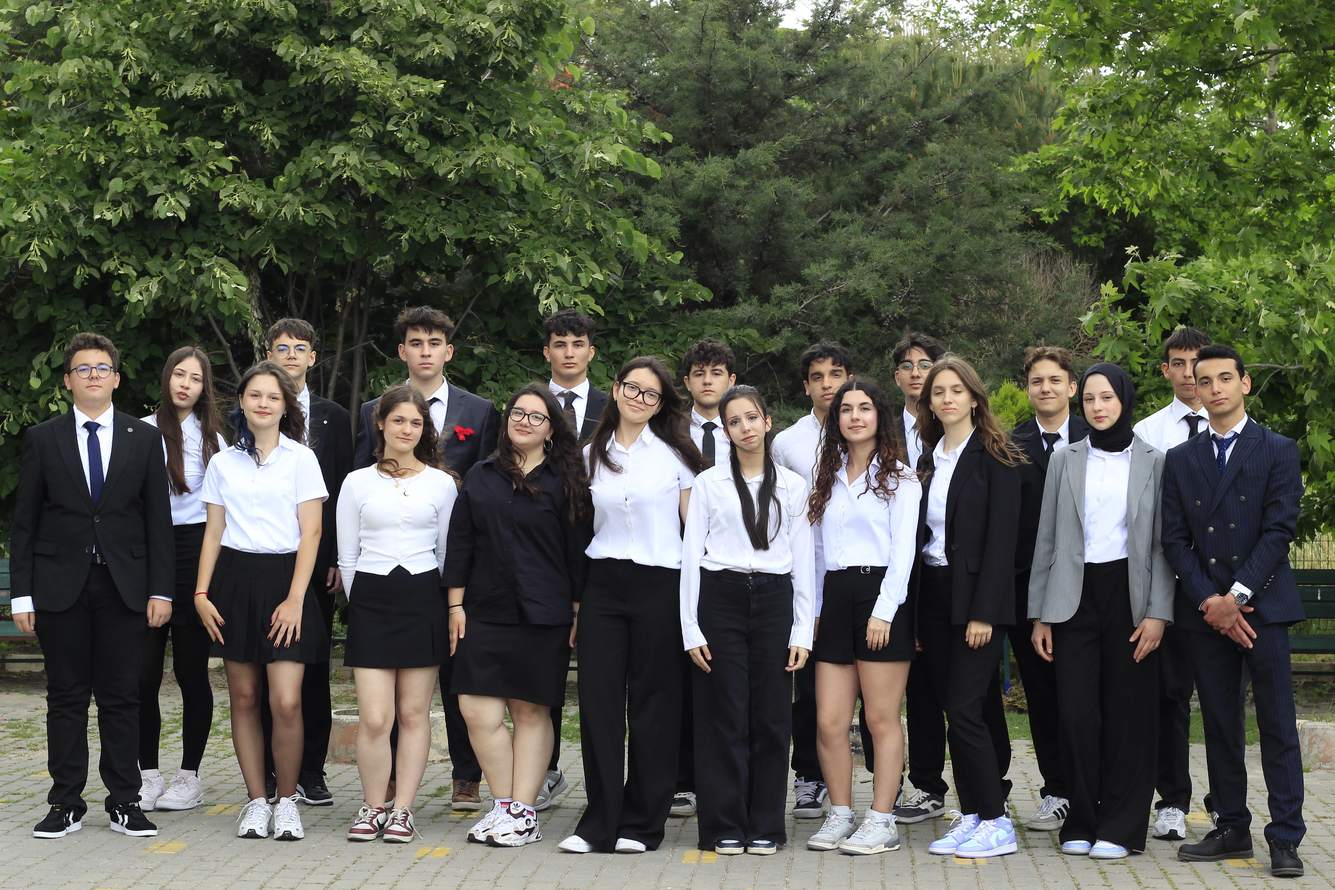
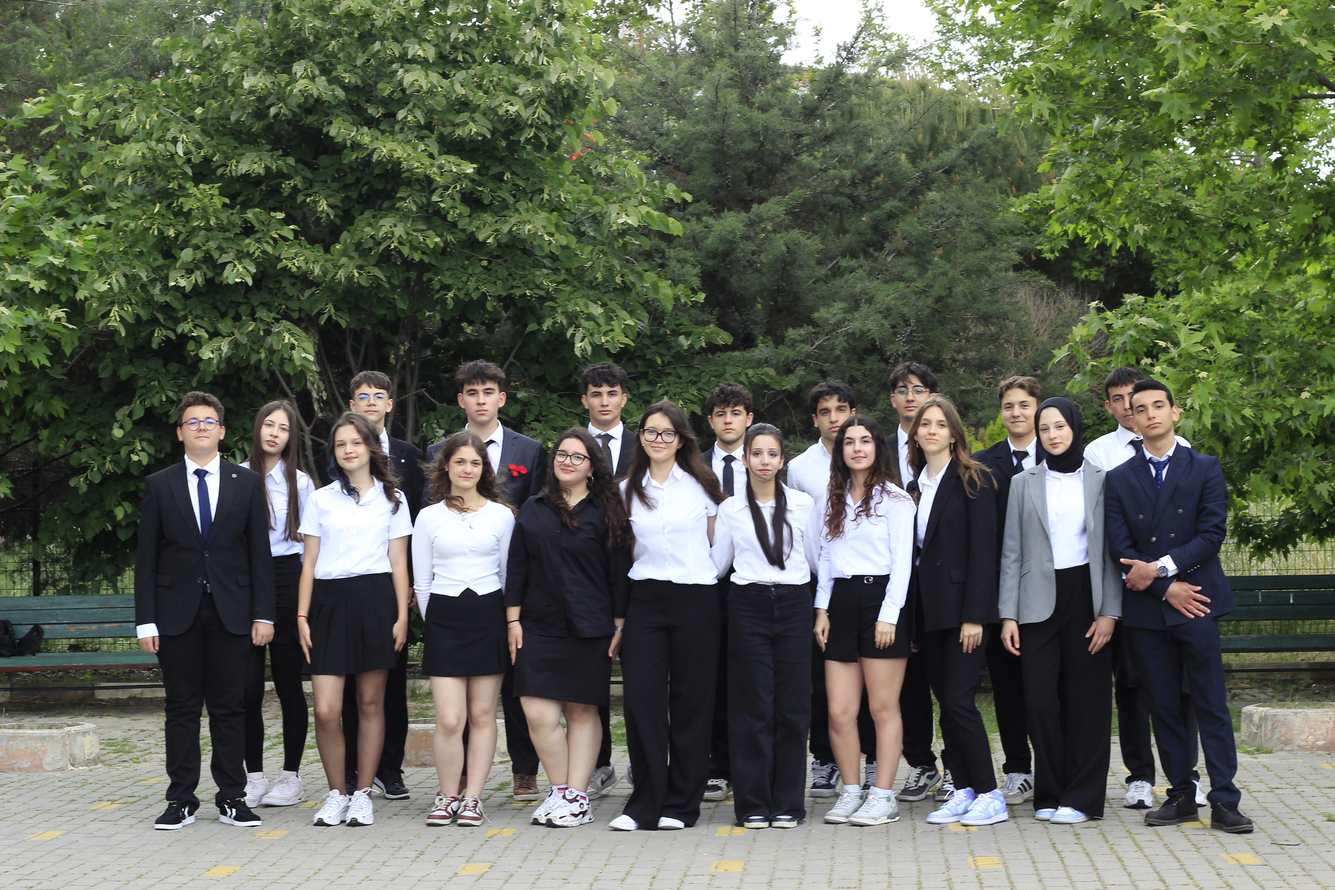
mal admin

diff --git a/example.html b/example.html
@@ -1,203 +1,223 @@
+
 <!DOCTYPE html>
 <html lang="tr">
 <head>
     <meta charset="UTF-8">
     <meta name="viewport" content="width=device-width, initial-scale=1.0">
-    <title>Rayfelmun Parlamento Paneli - 45 Derece</title>
+    <title>Rayfelmun '26 | Your Voice Can Change The World.</title>
+    
+    <link rel="canonical" href="https://rayfelmun.org/" />
+    
+    <meta name="description" content="Rayfel Model United Nations 2026 (Rayfelmun '26) resmi web sitesi. Komitelerimizi keşfedin ve başvurunuzu yaparak diplomasi dünyasına adım atın.">
+    <meta name="keywords" content="Rayfelmun, Rayfelmun 2026, MUN Türkiye, Model United Nations, MUN başvuruları, Ramazan Yaman Fen Lisesi MUN, Rayfel">
+    <meta name="robots" content="index, follow">
+    <meta name="author" content="Ada Özkan">
+
+    <link href="https://fonts.googleapis.com/css2?family=Antonio:wght@400;700&family=Outfit:wght@300;400;600;700&display=swap" rel="stylesheet">
+    <link rel="stylesheet" href="https://cdnjs.cloudflare.com/ajax/libs/font-awesome/6.0.0/css/all.min.css">
+    <link rel="stylesheet" href="style.css">
+
     <style>
-        @import url('https://fonts.googleapis.com/css2?family=Inter:wght@400;600&display=swap');
-
-        body {
-            font-family: 'Inter', sans-serif;
-            background-color: #f0f2f5;
-            display: flex;
-            justify-content: center;
-            align-items: center;
-            height: 100vh;
-            margin: 0;
-        }
-
-        .main-card {
-            background-color: #142948;
-            width: 850px;
-            height: 550px;
-            border-radius: 24px;
-            display: flex;
-            box-shadow: 0 25px 50px rgba(0,0,0,0.3);
-            overflow: hidden;
-        }
-
-        /* Sol Panel */
-        .sidebar {
-            width: 260px;
-            background-color: rgba(255, 255, 255, 0.03);
-            border-right: 1px solid rgba(255, 255, 255, 0.08);
-            padding: 40px 30px;
-            display: flex;
-            flex-direction: column;
-            color: white;
-            z-index: 2;
-        }
-
-        .sidebar h2 {
-            font-size: 20px;
-            margin-bottom: 30px;
-            letter-spacing: 2px;
-            border-left: 4px solid #e74c3c;
-            padding-left: 15px;
-            text-transform: uppercase;
-        }
-
-        .stat-item {
-            margin-bottom: 25px;
-        }
-
-        .stat-label {
-            font-size: 11px;
-            text-transform: uppercase;
-            opacity: 0.6;
-            display: block;
-            margin-bottom: 5px;
-        }
-
-        .stat-value {
-            font-size: 24px;
-            font-weight: 600;
-        }
-
-        /* Sağ Panel (Parlamento Alanı) */
-        .content {
-            flex: 1;
-            position: relative;
-            display: flex;
-            justify-content: center;
-            align-items: center;
-            background: radial-gradient(circle at center, rgba(255,255,255,0.02) 0%, transparent 70%);
-        }
-
-        /* Oturma planını komple 45 derece döndüren ana kapsayıcı */
-        .parliament-wrapper {
-            position: relative;
-            width: 400px;
-            height: 400px;
-            transform: rotate(-45deg); /* Tüm yapıyı 45 derece sola yatırdık */
-            display: flex;
-            justify-content: center;
-            align-items: center;
-        }
-
-        .parliament-container {
-            position: relative;
+        /* Sponsorlar Şerit Stili - Güncellenmiş ve Büyütülmüş */
+        .sponsors-container {
+            background-color: #5d0000; 
+            padding: 80px 0;
             width: 100%;
-            height: 100%;
+            overflow: hidden;
+            text-align: center;
         }
 
-        .podium {
-            position: absolute;
-            bottom: 20%;
-            left: 50%;
-            transform: translateX(-50%);
-            width: 50px;
-            height: 12px;
-            background-color: #ffffff;
-            border-radius: 2px;
-            box-shadow: 0 0 15px rgba(255,255,255,0.2);
+        .sponsors-header {
+            color: #fdf5e6;
+            font-family: 'Antonio', sans-serif;
+            font-size: 2.5rem;
+            letter-spacing: 3px;
+            margin-bottom: 50px;
+            text-transform: uppercase;
         }
 
-        .seat {
-            position: absolute;
-            width: 10px;
-            height: 10px;
-            background-color: #ffffff;
-            border-radius: 2px;
-            transition: all 0.3s cubic-bezier(0.175, 0.885, 0.32, 1.275);
+        .marquee-wrapper {
+            width: 95%; 
+            max-width: 1400px;
+            margin: 0 auto;
+            overflow: hidden;
+            mask-image: linear-gradient(to right, transparent, black 10%, black 90%, transparent);
         }
 
-        .seat.marked {
-            background-color: #e74c3c;
-            box-shadow: 0 0 8px rgba(231, 76, 60, 0.4);
+        .marquee-inner {
+            display: flex;
+            gap: 40px;
+            animation: scroll 25s linear infinite;
+            width: max-content;
         }
 
-        .seat:hover {
-            transform: scale(1.8) !important;
-            z-index: 100;
-            cursor: pointer;
-            box-shadow: 0 0 15px rgba(255,255,255,0.6);
+        .sponsor-box {
+            background-color: #fdf5e6; 
+            color: #5d0000; 
+            padding: 25px 50px;
+            border-radius: 12px;
+            font-family: 'Outfit', sans-serif;
+            font-weight: 700;
+            font-size: 1.3rem;
+            white-space: nowrap;
+            box-shadow: 0 8px 15px rgba(0,0,0,0.2);
+            border: 2px solid #e0c9a6;
+        }
+
+        @keyframes scroll {
+            0% { transform: translateX(0); }
+            100% { transform: translateX(-50%); }
         }
     </style>
 </head>
 <body>
 
-    <div class="main-card">
-        <div class="sidebar">
-            <h2>RAYFELMUN</h2>
-            <div class="stat-item">
-                <span class="stat-label">TOPLAM DELEGE</span>
-                <span class="stat-value" id="total-seats">0</span>
+    <header>
+        <nav>
+            <a href="/" class="logo-area">
+                <img src="rayfelmunLogo.png" alt="Rayfelmun 2026 Logo">
+                <span>Rayfelmun</span>
+            </a>
+            
+            <div class="menu-toggle" id="mobile-menu">
+                <i class="fas fa-bars"></i>
             </div>
-            <div class="stat-item">
-                <span class="stat-label">DOLU KOLTUK</span>
-                <span class="stat-value" style="color: #e74c3c;">25</span>
-            </div>
-            <div class="stat-item" style="margin-top: auto;">
-                <span class="stat-label">SİSTEM DURUMU</span>
-                <span class="stat-value" style="font-size: 14px; color: #2ecc71;">● CANLI BAĞLANTI</span>
-            </div>
-        </div>
 
-        <div class="content">
-            <!-- 45 derece dönen wrapper -->
-            <div class="parliament-wrapper">
-                <div class="parliament-container" id="parliament">
-                    <div class="podium"></div>
+            <div class="nav-right" id="nav-menu">
+                <ul class="nav-links">
+                    <li><a href="/" class="active">HOME</a></li>
+                    <li><a href="about.html">ABOUT</a></li>
+                    <li><a href="team.html">TEAM</a></li>
+                    <li><a href="committees.html">COMMITTEES</a></li> 
+                    <li><a href="calendar.html">CALENDAR</a></li> 
+                    <li><a href="venue.html">VENUE</a></li>
+                    <li><a href="faq.html">FAQ</a></li>
+                    <li><a href="contact.html">CONTACT</a></li>
+                </ul>
+                <a href="apply.html" class="apply-btn">APPLY NOW</a>
+            </div>
+        </nav>
+    </header>
+
+    <main>
+        <section class="hero">
+            <div class="hero-content">
+                <h1>Rayfelmun</h1>
+                <p class="slogan">Your voıce can change the world.</p>
+                
+                <div class="countdown">
+                    <div class="time-box">
+                        <span id="days">00</span>
+                        <label>Days</label>
+                    </div>
+                    <div class="time-box">
+                        <span id="hours">00</span>
+                        <label>Hours</label>
+                    </div>
+                    <div class="time-box">
+                        <span id="minutes">00</span>
+                        <label>Mıns</label>
+                    </div>
+                    <div class="time-box">
+                        <span id="seconds">00</span>
+                        <label>Secs</label>
+                    </div>
                 </div>
             </div>
+        </section>
+
+        <section class="sponsors-container">
+            <h2 class="sponsors-header">Our Sponsors</h2>
+            <div class="marquee-wrapper">
+                <div class="marquee-inner">
+                    <div class="sponsor-box">Super Energy</div>
+                    <div class="sponsor-box">Çiğköfteci Ömer Aybak</div>
+                    <div class="sponsor-box">Kızılay Natural Mineral Water</div>
+                    <div class="sponsor-box">Frango Döner</div>
+                    <div class="sponsor-box">Sponsor 5</div>
+                    <div class="sponsor-box">Super Energy</div>
+                    <div class="sponsor-box">Çiğköfteci Ömer Aybak</div>
+                    <div class="sponsor-box">Kızılay Natural Mineral Water</div>
+                    <div class="sponsor-box">Frango Döner</div>
+                    <div class="sponsor-box">Sponsor 5</div>
+                </div>
+            </div>
+        </section>
+    </main>
+
+    <footer>
+        <div class="footer-brand">
+            <img src="rayfelmunLogo.png" alt="Rayfelmun 2026 Footer Logo">
+            <h2>Rayfelmun<span style="font-family: 'Antonio', sans-serif;">26</span></h2>
+            <p>Your voice can change the world.</p>
         </div>
+        <div class="footer-col">
+            <h4>CONFERENCE</h4>
+            <ul>
+                <li><a href="/">HOME</a></li>
+                <li><a href="about.html">ABOUT</a></li>
+                <li><a href="team.html">TEAM</a></li>
+                <li><a href="committees.html">COMMITTEES</a></li> 
+                <li><a href="calendar.html">CALENDAR</a></li> 
+                <li><a href="venue.html">VENUE</a></li>
+                <li><a href="faq.html">FAQ</a></li>
+                <li><a href="contact.html">CONTACT</a></li>
+                <li><a href="apply.html" style="color:#27f4d2;">APPLY NOW</a></li>
+            </ul>
+        </div>
+        <div class="footer-col">
+            <h4>LEGAL</h4>
+            <ul>
+                <li><a href="#">Terms & Condıtıons</a></li>
+                <li><a href="#">prıvacy polıcy</a></li>
+            </ul>
+        </div>
+        <div class="footer-col">
+            <h4>SOCIAL</h4>
+            <div class="social-icons">
+                <a href="https://www.instagram.com/rayfelmun/" target="_blank" rel="noopener" aria-label="Instagram"><i class="fab fa-instagram"></i></a>
+                <a href="#" aria-label="TikTok"><i class="fab fa-tiktok"></i></a>
+                <a href="https://www.linkedin.com/school/ramazan-yaman-fen-lisesi/" target="_blank" rel="noopener" aria-label="LinkedIn"><i class="fab fa-linkedin"></i></a>
+            </div>
+        </div>
+    </footer>
+
+    <div class="bottom-bar">
+        <div>© Rayfelmun 2026. All rights reserved.</div>
+        <div>Crafted with ❤ by Ada Özkan</div>
     </div>
 
     <script>
-        const container = document.getElementById('parliament');
-        const rows = 4; 
-        const seatsPerRow = 10; 
-        const centerX = 200; // Wrapper merkezine göre
-        const centerY = 200; 
-        
-        let markedCount = 0;
-        let totalCreated = 0;
+        const menuToggle = document.getElementById('mobile-menu');
+        const navMenu = document.getElementById('nav-menu');
 
-        for (let row = 0; row < rows; row++) {
-            const radius = 70 + (row * 30); 
-            const seatCount = seatsPerRow + (row * 2); 
+        menuToggle.addEventListener('click', () => {
+            navMenu.classList.toggle('active');
+            const icon = menuToggle.querySelector('i');
+            icon.classList.toggle('fa-bars');
+            icon.classList.toggle('fa-times');
+        });
 
-            for (let i = 0; i <= seatCount; i++) {
-                const seat = document.createElement('div');
-                seat.className = 'seat';
+        const targetDate = new Date("Jun 15, 2026 11:00:00").getTime();
+        const timer = setInterval(function() {
+            const now = new Date().getTime();
+            const distance = targetDate - now;
 
-                if (markedCount < 25) {
-                    seat.classList.add('marked');
-                    markedCount++;
-                }
+            const d = Math.floor(distance / (1000 * 60 * 60 * 24));
+            const h = Math.floor((distance % (1000 * 60 * 60 * 24)) / (1000 * 60 * 60));
+            const m = Math.floor((distance % (1000 * 60 * 60)) / (1000 * 60));
+            const s = Math.floor((distance % (1000 * 60)) / 1000);
 
-                // Yarım daire (180 derece) açısını hesapla
-                const angleRad = (Math.PI / seatCount) * i;
-                const angleDeg = (angleRad * 180) / Math.PI;
+            document.getElementById("days").innerText = d < 10 ? "0"+d : d;
+            document.getElementById("hours").innerText = h < 10 ? "0"+h : h;
+            document.getElementById("minutes").innerText = m < 10 ? "0"+m : m;
+            document.getElementById("seconds").innerText = s < 10 ? "0"+s : s;
 
-                const x = centerX - (radius * Math.cos(angleRad));
-                const y = centerY - (radius * Math.sin(angleRad));
-
-                seat.style.left = `${x}px`;
-                seat.style.top = `${y}px`;
-                
-                // Koltukların kendi etrafında dönmesi (kürsüye bakış) + ana wrapper'ın -45'ini kompanse etme gerekebilir
-                // Ancak wrapper döndüğü için sadece yerel "merkeze bakış" açısı yeterlidir.
-                seat.style.transform = `translate(-50%, -50%) rotate(${270 + angleDeg}deg)`;
-
-                container.appendChild(seat);
-                totalCreated++;
+            if (distance < 0) {
+                clearInterval(timer);
+                document.querySelector(".countdown").innerHTML = "<h3 style='color:#142948; letter-spacing:2px;'>CONFERENCE LIVE</h3>";
             }
-        }
-        document.getElementById('total-seats').innerText = totalCreated;
+        }, 1000);
     </script>
-
 </body>
 </html>
